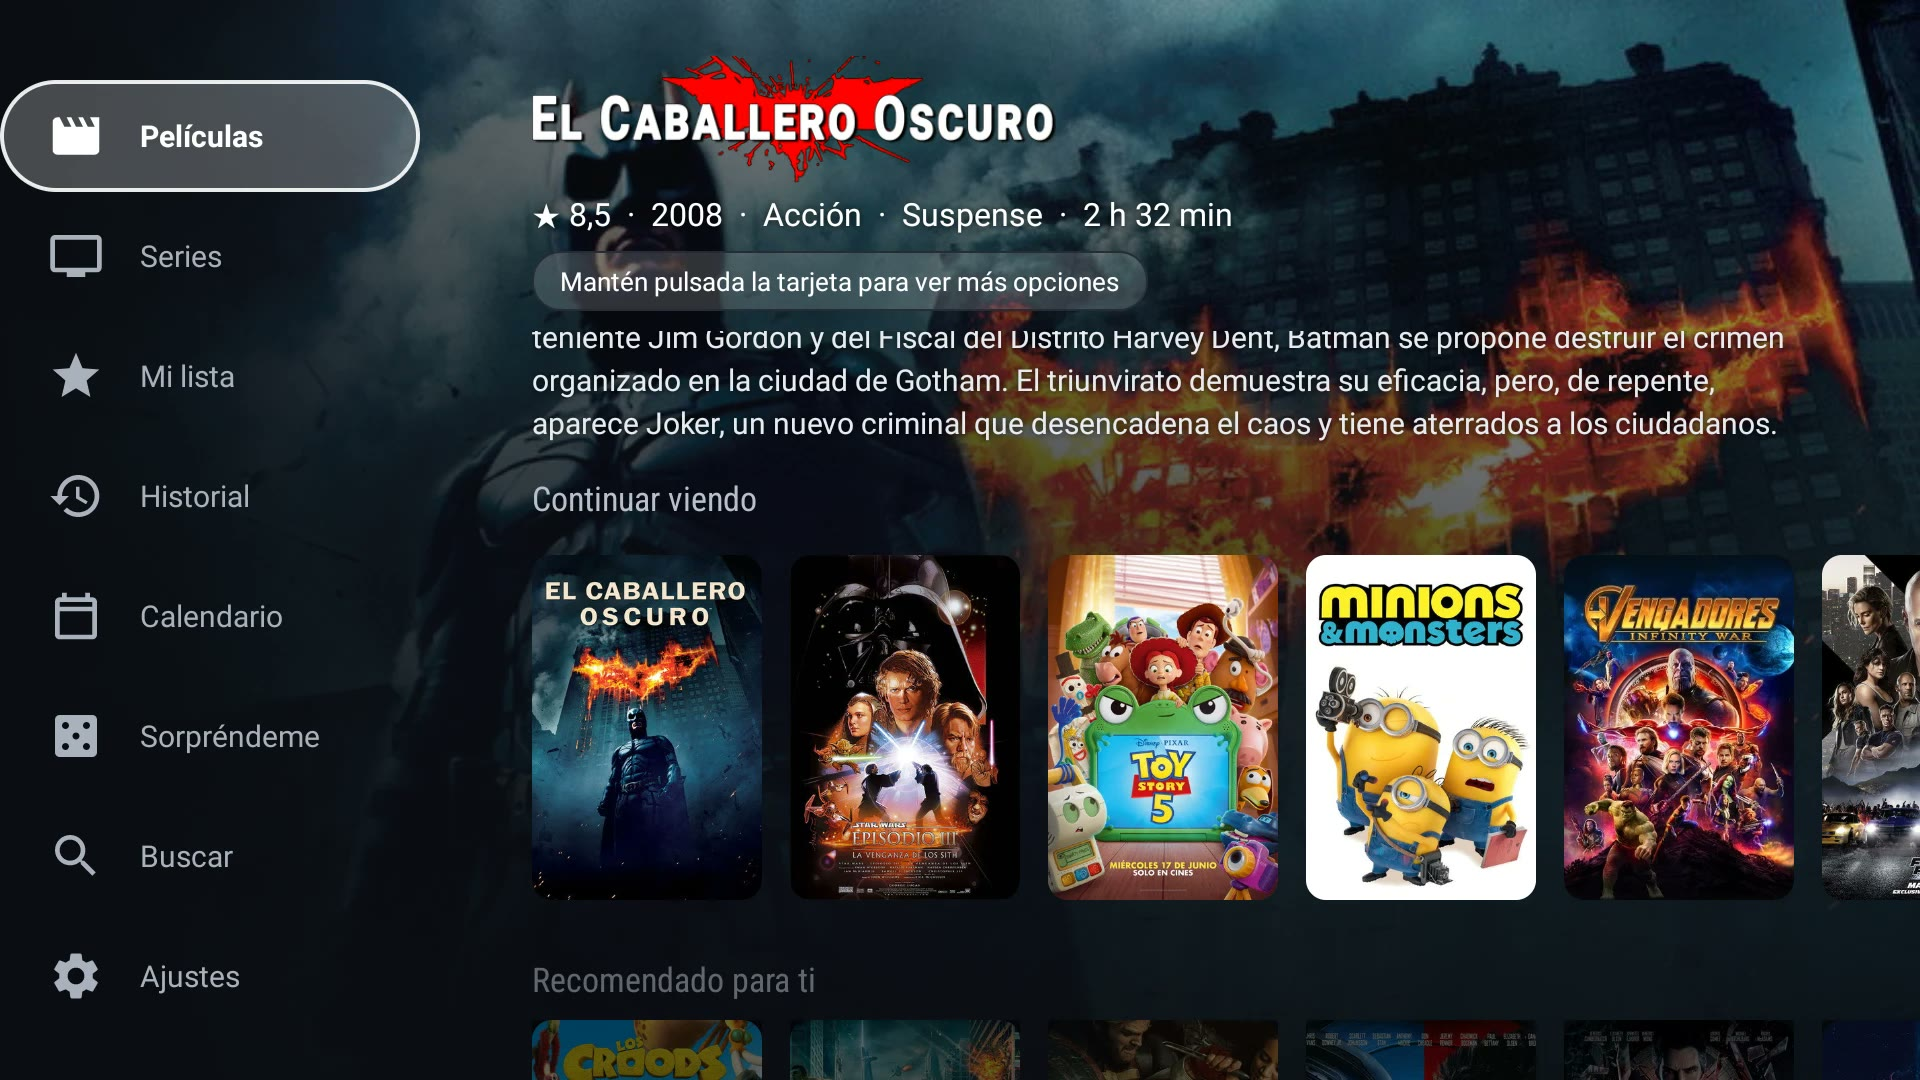
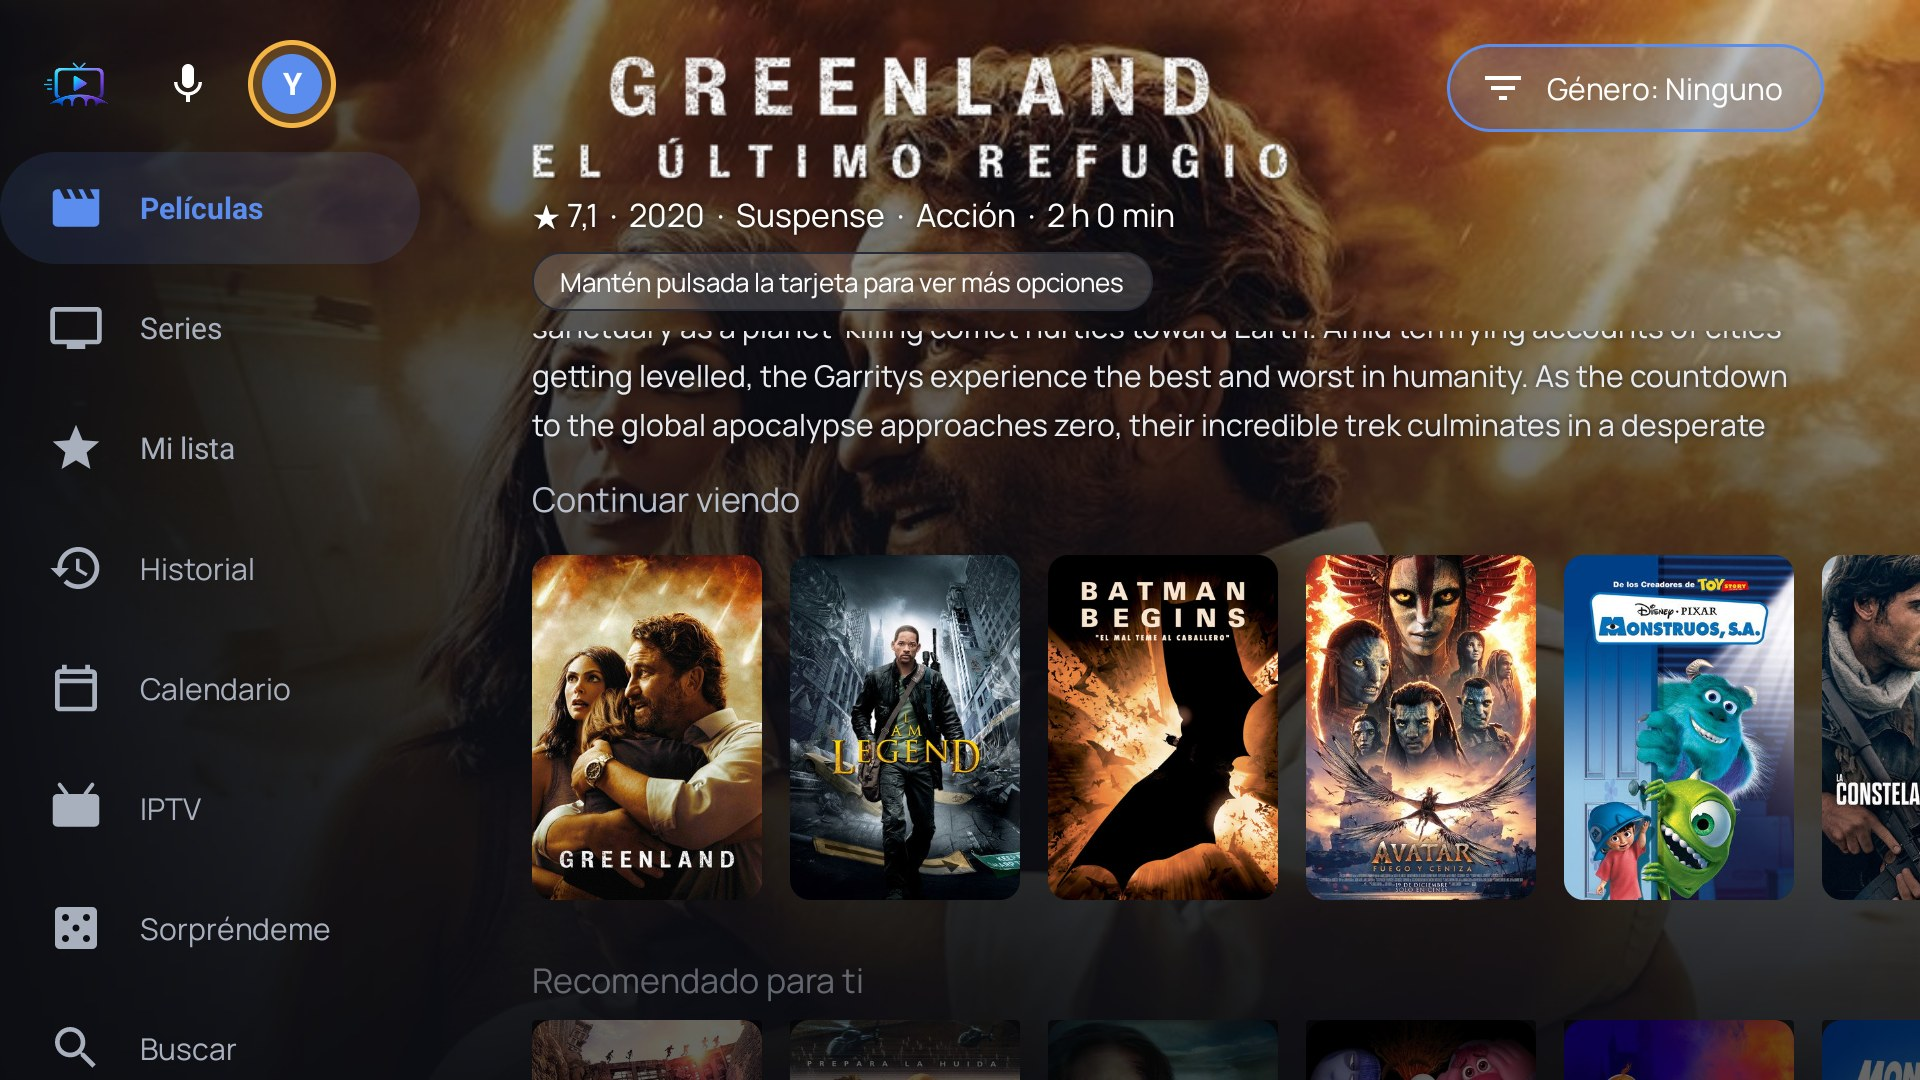
Web: captura nueva de Recomendaciones con el icono de perfil junto al microfono y captura del selector '¿Quien esta viendo?' (nombres pixelados) en Funciones, EN/ES

diff --git a/docs/features.html b/docs/features.html
@@ -213,6 +213,7 @@
       <figure class="fig"><img src="screenshot-calendar.jpg" width="1920" height="1080" alt="WatchBridge TV calendar agenda with the next episodes and premieres" loading="lazy"><figcaption id="fig3" data-i18n="shots.calendar">Calendar — an agenda of the next episodes and premieres of what you follow</figcaption></figure>
       <figure class="fig"><img src="screenshot-search.jpg" width="1920" height="1080" alt="WatchBridge TV search screen with voice search" loading="lazy"><figcaption id="fig4" data-i18n="shots.search">Search, with voice</figcaption></figure>
       <figure class="fig"><img src="screenshot-home.jpg" width="1920" height="1080" alt="WatchBridge TV home screen" loading="lazy"><figcaption id="fig5" data-i18n="shots.home">Recommended for you, with Continue watching</figcaption></figure>
+      <figure class="fig"><img src="screenshot-profiles.jpg" width="1920" height="1080" alt="WatchBridge TV asking who is watching, with three profiles" loading="lazy"><figcaption id="fig6" data-i18n="shots.profiles">Who is watching? Each profile keeps its own history, My list and IPTV favorites</figcaption></figure>
     </div>
   </div>
 </section>
@@ -436,6 +437,7 @@
       "shots.calendar": "Calendario — una agenda con los próximos episodios y estrenos de lo que sigues",
       "shots.search": "Búsqueda, con voz",
       "shots.home": "Recomendado para ti, con Continuar viendo",
+      "shots.profiles": "¿Quién está viendo? Cada perfil guarda su historial, su Mi lista y sus favoritos de IPTV",
       "ft.l.k": "TV en directo",
       "ft.l.h2": "Una guía de TV para tu propia lista IPTV",
       "ft.l1.t": "Tu lista",

diff --git a/docs/es/features.html b/docs/es/features.html
@@ -211,6 +211,7 @@
       <figure class="fig"><img src="/screenshot-calendar.jpg" width="1920" height="1080" alt="Calendario de WatchBridge TV con las fechas de los próximos episodios de las series que sigues" loading="lazy"><figcaption id="fig3">Calendario — una agenda con los próximos episodios y estrenos de lo que sigues</figcaption></figure>
       <figure class="fig"><img src="/screenshot-search.jpg" width="1920" height="1080" alt="Pantalla de búsqueda de WatchBridge TV con búsqueda por voz" loading="lazy"><figcaption id="fig4">Búsqueda, con voz</figcaption></figure>
       <figure class="fig"><img src="/screenshot-home.jpg" width="1920" height="1080" alt="Pantalla de inicio de WatchBridge TV: filas de Continuar viendo y Recomendado para ti" loading="lazy"><figcaption id="fig5">Recomendado para ti, con Continuar viendo</figcaption></figure>
+      <figure class="fig"><img src="/screenshot-profiles.jpg" width="1920" height="1080" alt="WatchBridge TV asking who is watching, with three profiles" loading="lazy"><figcaption id="fig6">¿Quién está viendo? Cada perfil guarda su historial, su Mi lista y sus favoritos de IPTV</figcaption></figure>
     </div>
   </div>
 </section>
